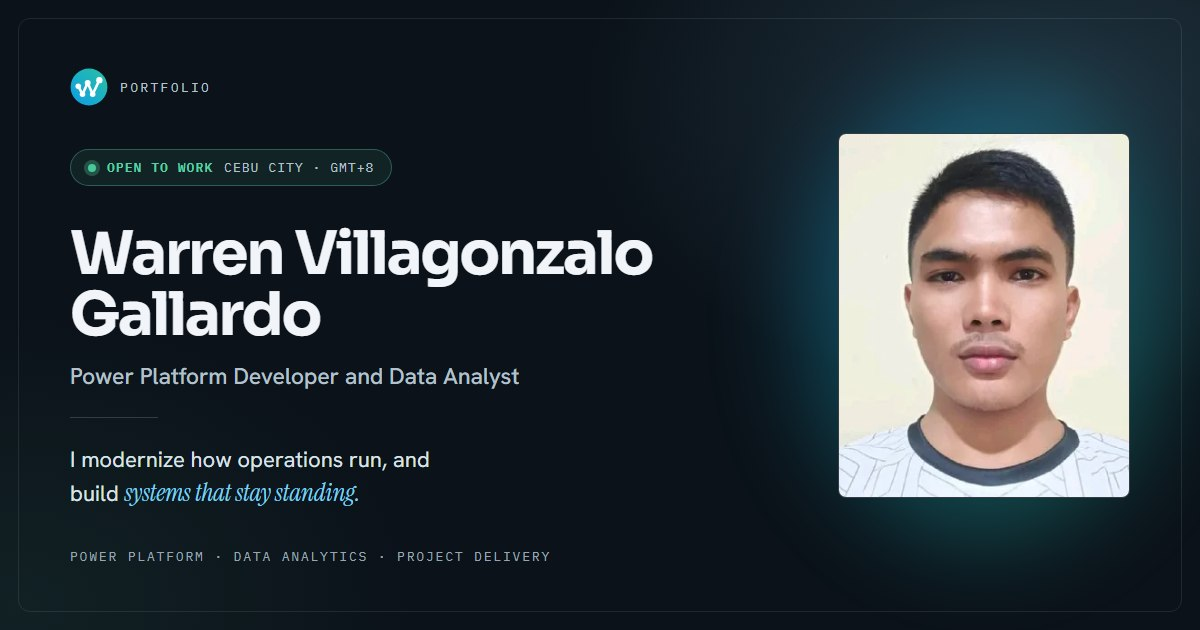
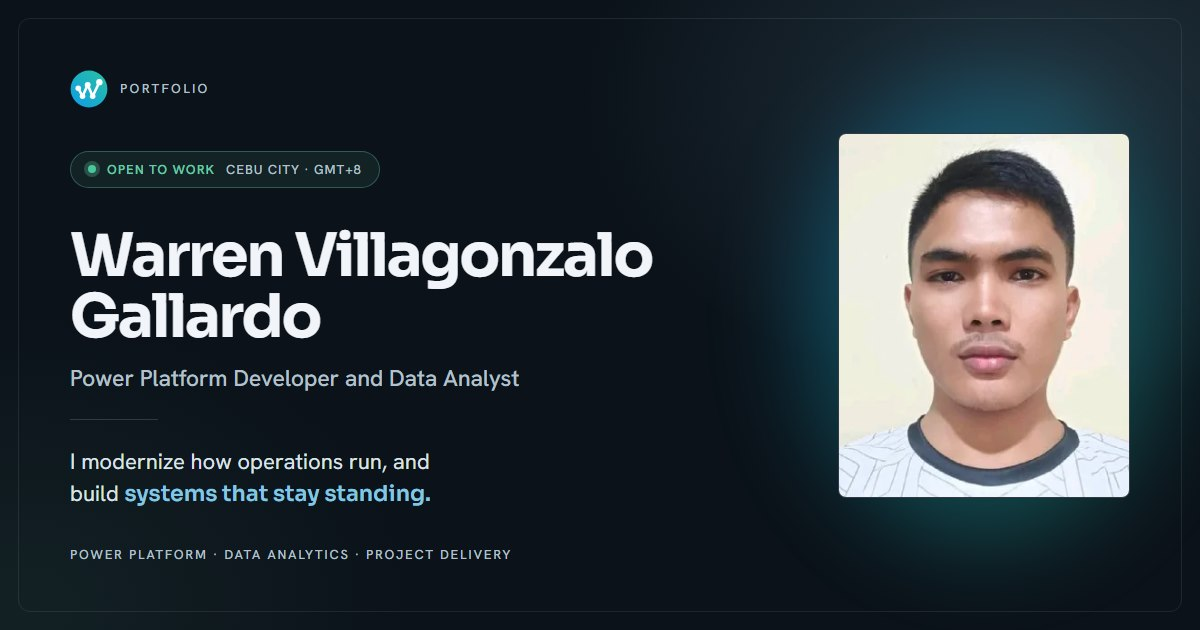
Refresh OG card

diff --git a/tools/og-card.html b/tools/og-card.html
@@ -26,7 +26,7 @@
     <link rel="preconnect" href="https://fonts.gstatic.com" crossorigin />
     <link
       rel="stylesheet"
-      href="https://fonts.googleapis.com/css2?family=Hanken+Grotesk:wght@400;500&family=IBM+Plex+Mono:wght@400;500;600&family=Instrument+Serif:ital@1&family=Sora:wght@600;700&display=block"
+      href="https://fonts.googleapis.com/css2?family=Hanken+Grotesk:wght@400;500;600&family=Sora:wght@600;700&display=block"
     />
     <style>
       *,
@@ -62,15 +62,15 @@
         height: 630px;
         padding: 62px 70px;
         background:
-          radial-gradient(720px 460px at 88% 16%, rgba(126, 208, 240, 0.18), transparent 66%),
-          radial-gradient(560px 420px at 2% 96%, rgba(90, 208, 166, 0.08), transparent 70%), #0b1219;
+          radial-gradient(720px 460px at 88% 16%, rgba(131, 199, 226, 0.18), transparent 66%),
+          radial-gradient(560px 420px at 2% 96%, rgba(104, 202, 168, 0.08), transparent 70%), #0b1219;
       }
 
       /* An edge of its own, for wherever a platform crops or mats the image. */
       .card::after {
         position: absolute;
         inset: 18px;
-        border: 1px solid rgba(255, 255, 255, 0.09);
+        border: 1px solid rgba(241, 245, 249, 0.09);
         border-radius: 12px;
         content: '';
       }
@@ -95,10 +95,12 @@
         height: 38px;
       }
 
+      /* Labels are the body face in the site's label recipe: uppercase,
+         tracked out, a step heavier. */
       .brand span {
         color: #b4c1cd;
-        font-family: 'IBM Plex Mono', monospace;
         font-size: 13px;
+        font-weight: 500;
         letter-spacing: 0.18em;
       }
 
@@ -109,11 +111,11 @@
         align-items: center;
         align-self: flex-start;
         padding: 9px 17px;
-        border: 1px solid rgba(90, 208, 166, 0.35);
+        border: 1px solid rgba(104, 202, 168, 0.35);
         border-radius: 999px;
-        background: rgba(90, 208, 166, 0.09);
-        font-family: 'IBM Plex Mono', monospace;
+        background: rgba(104, 202, 168, 0.09);
         font-size: 13px;
+        font-weight: 500;
         letter-spacing: 0.08em;
       }
 
@@ -122,11 +124,11 @@
         height: 8px;
         border-radius: 999px;
         background: #48c79a;
-        box-shadow: 0 0 0 4px rgba(90, 208, 166, 0.28);
+        box-shadow: 0 0 0 4px rgba(104, 202, 168, 0.28);
       }
 
       .availability__status {
-        color: #5ad0a6;
+        color: #68caa8;
         font-weight: 600;
       }
 
@@ -156,7 +158,7 @@
         height: 1px;
         margin: 26px 0;
         border: 0;
-        background: rgba(255, 255, 255, 0.16);
+        background: rgba(241, 245, 249, 0.16);
       }
 
       .headline {
@@ -168,19 +170,21 @@
         text-wrap: pretty;
       }
 
-      /* The one emphasised phrase the card is allowed. */
+      /* The one emphasised phrase the card is allowed: the display face, a
+         step lighter than a headline, in the accent — .display-tail on the
+         page. Upright, because Sora has no italic to load. */
       .headline em {
-        color: #7ed0f0;
-        font-family: 'Instrument Serif', serif;
-        font-size: 1.12em;
-        font-style: italic;
+        color: #83c7e2;
+        font-family: 'Sora', sans-serif;
+        font-style: normal;
+        font-weight: 600;
       }
 
       .tracks {
         margin-top: 36px;
-        color: #98a6b3;
-        font-family: 'IBM Plex Mono', monospace;
+        color: #b4c1cd;
         font-size: 13px;
+        font-weight: 500;
         letter-spacing: 0.14em;
       }
 
@@ -210,7 +214,7 @@
         display: block;
         width: 100%;
         height: 100%;
-        border: 1px solid rgba(255, 255, 255, 0.14);
+        border: 1px solid rgba(241, 245, 249, 0.14);
         border-radius: 8px;
         background: #131c26;
         object-fit: cover;
